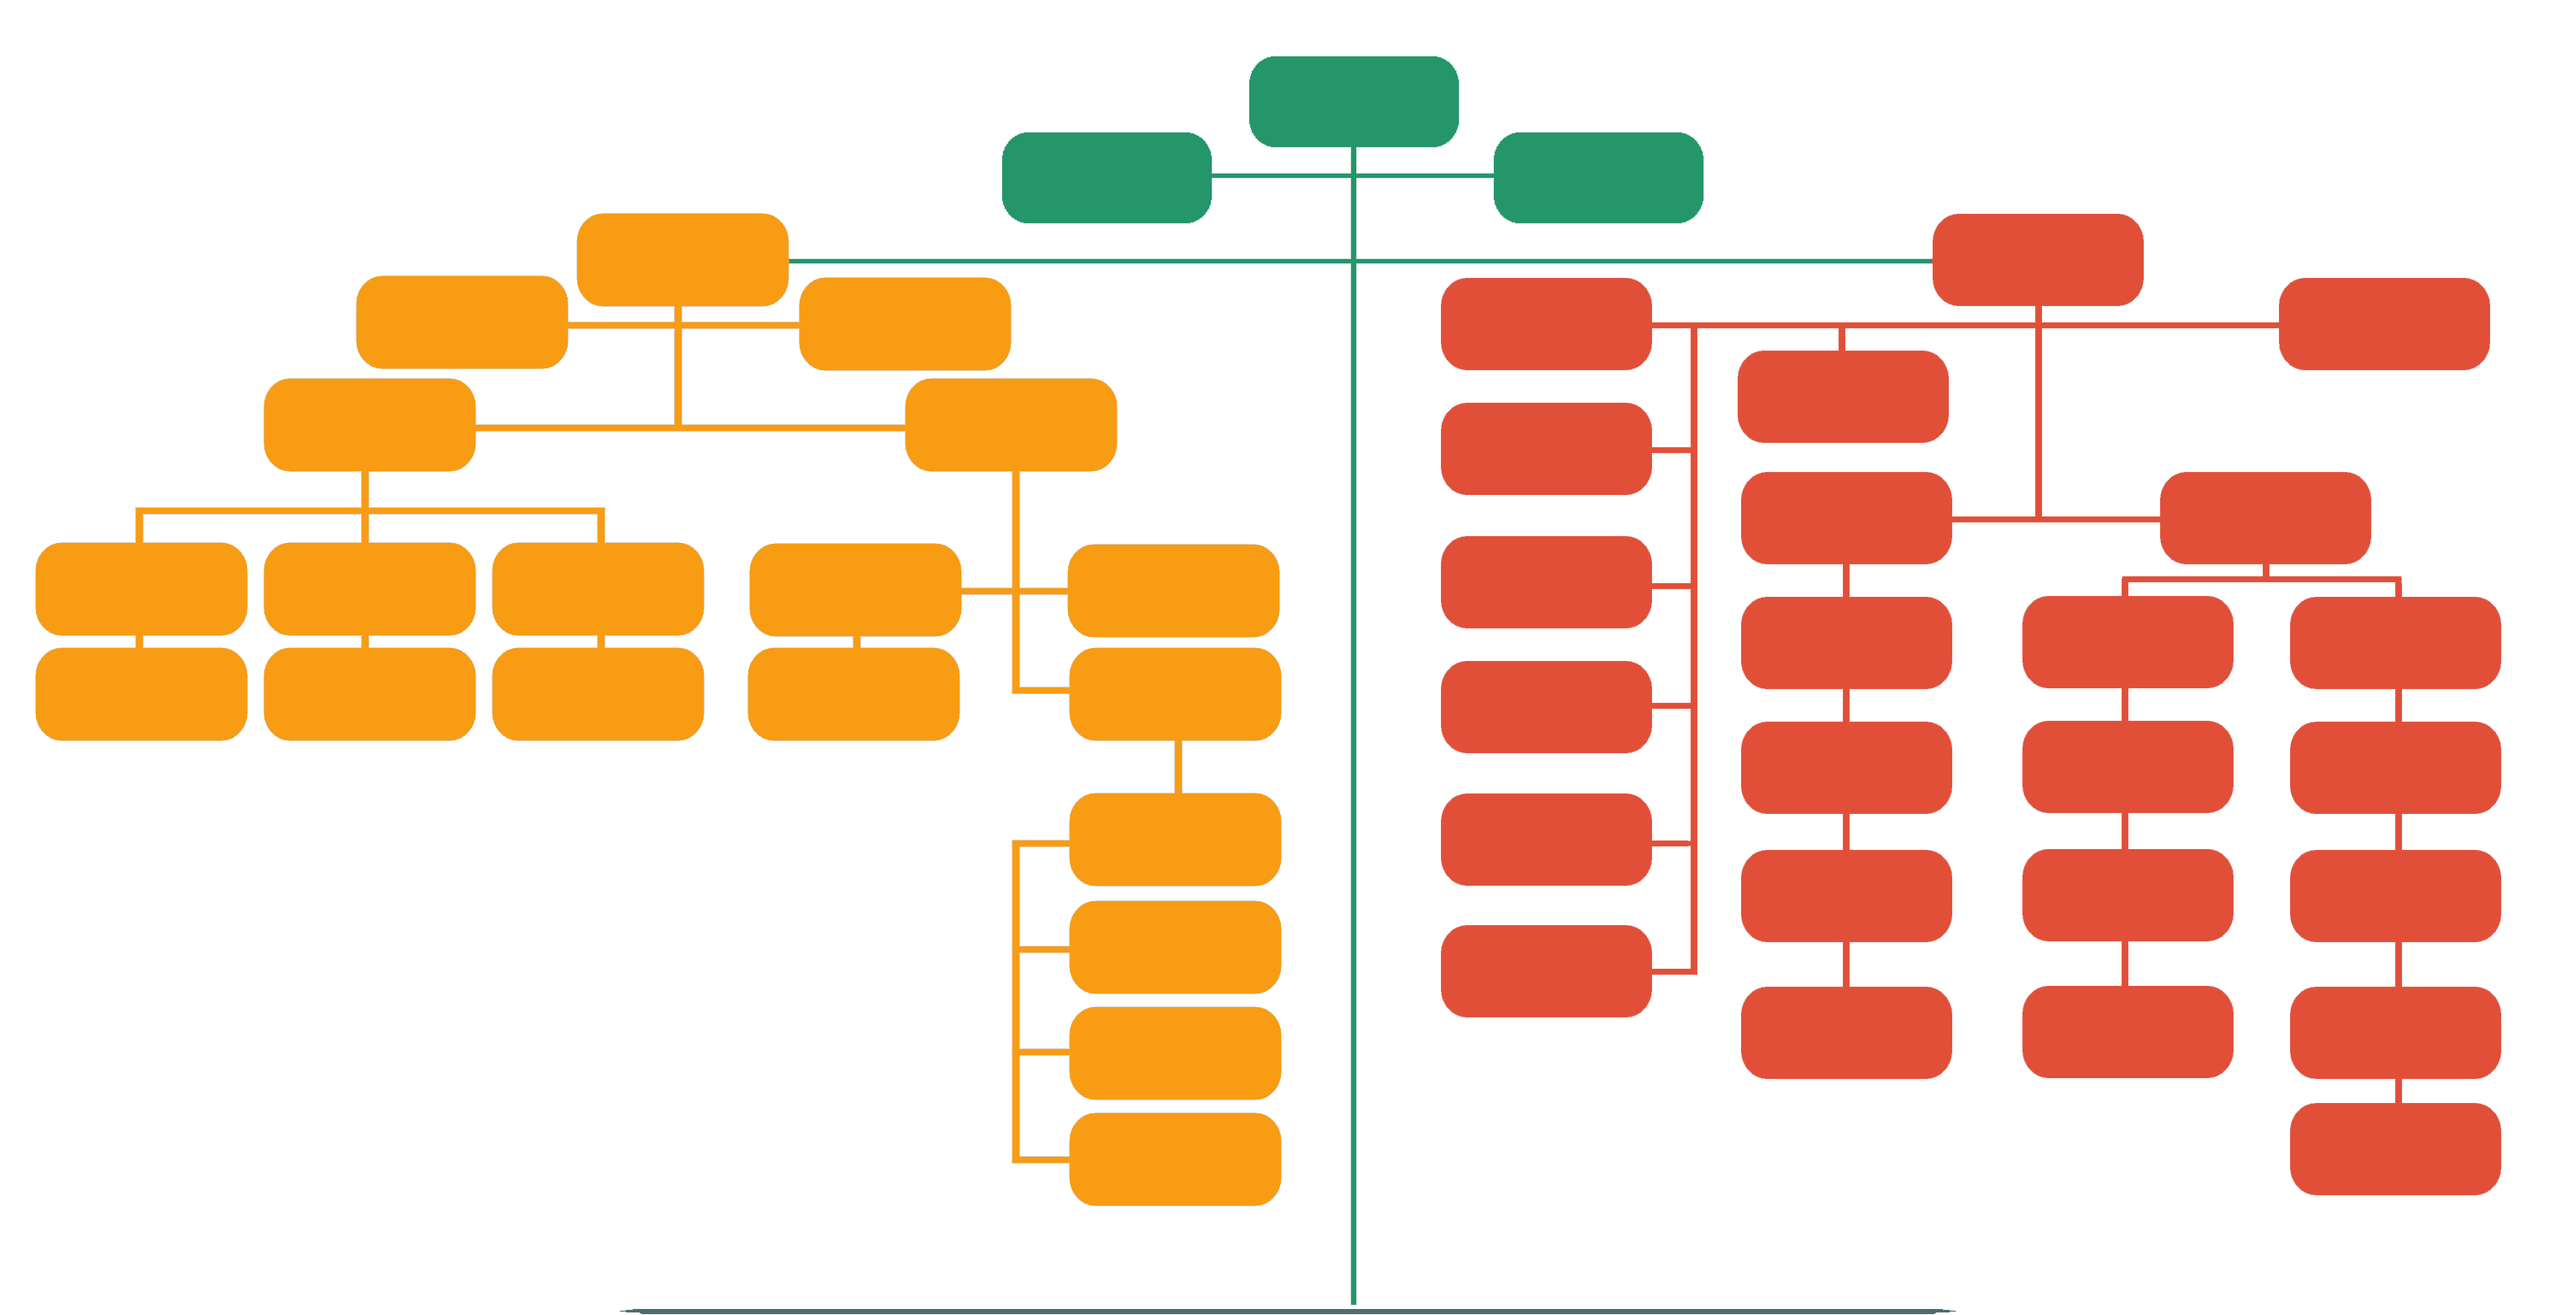
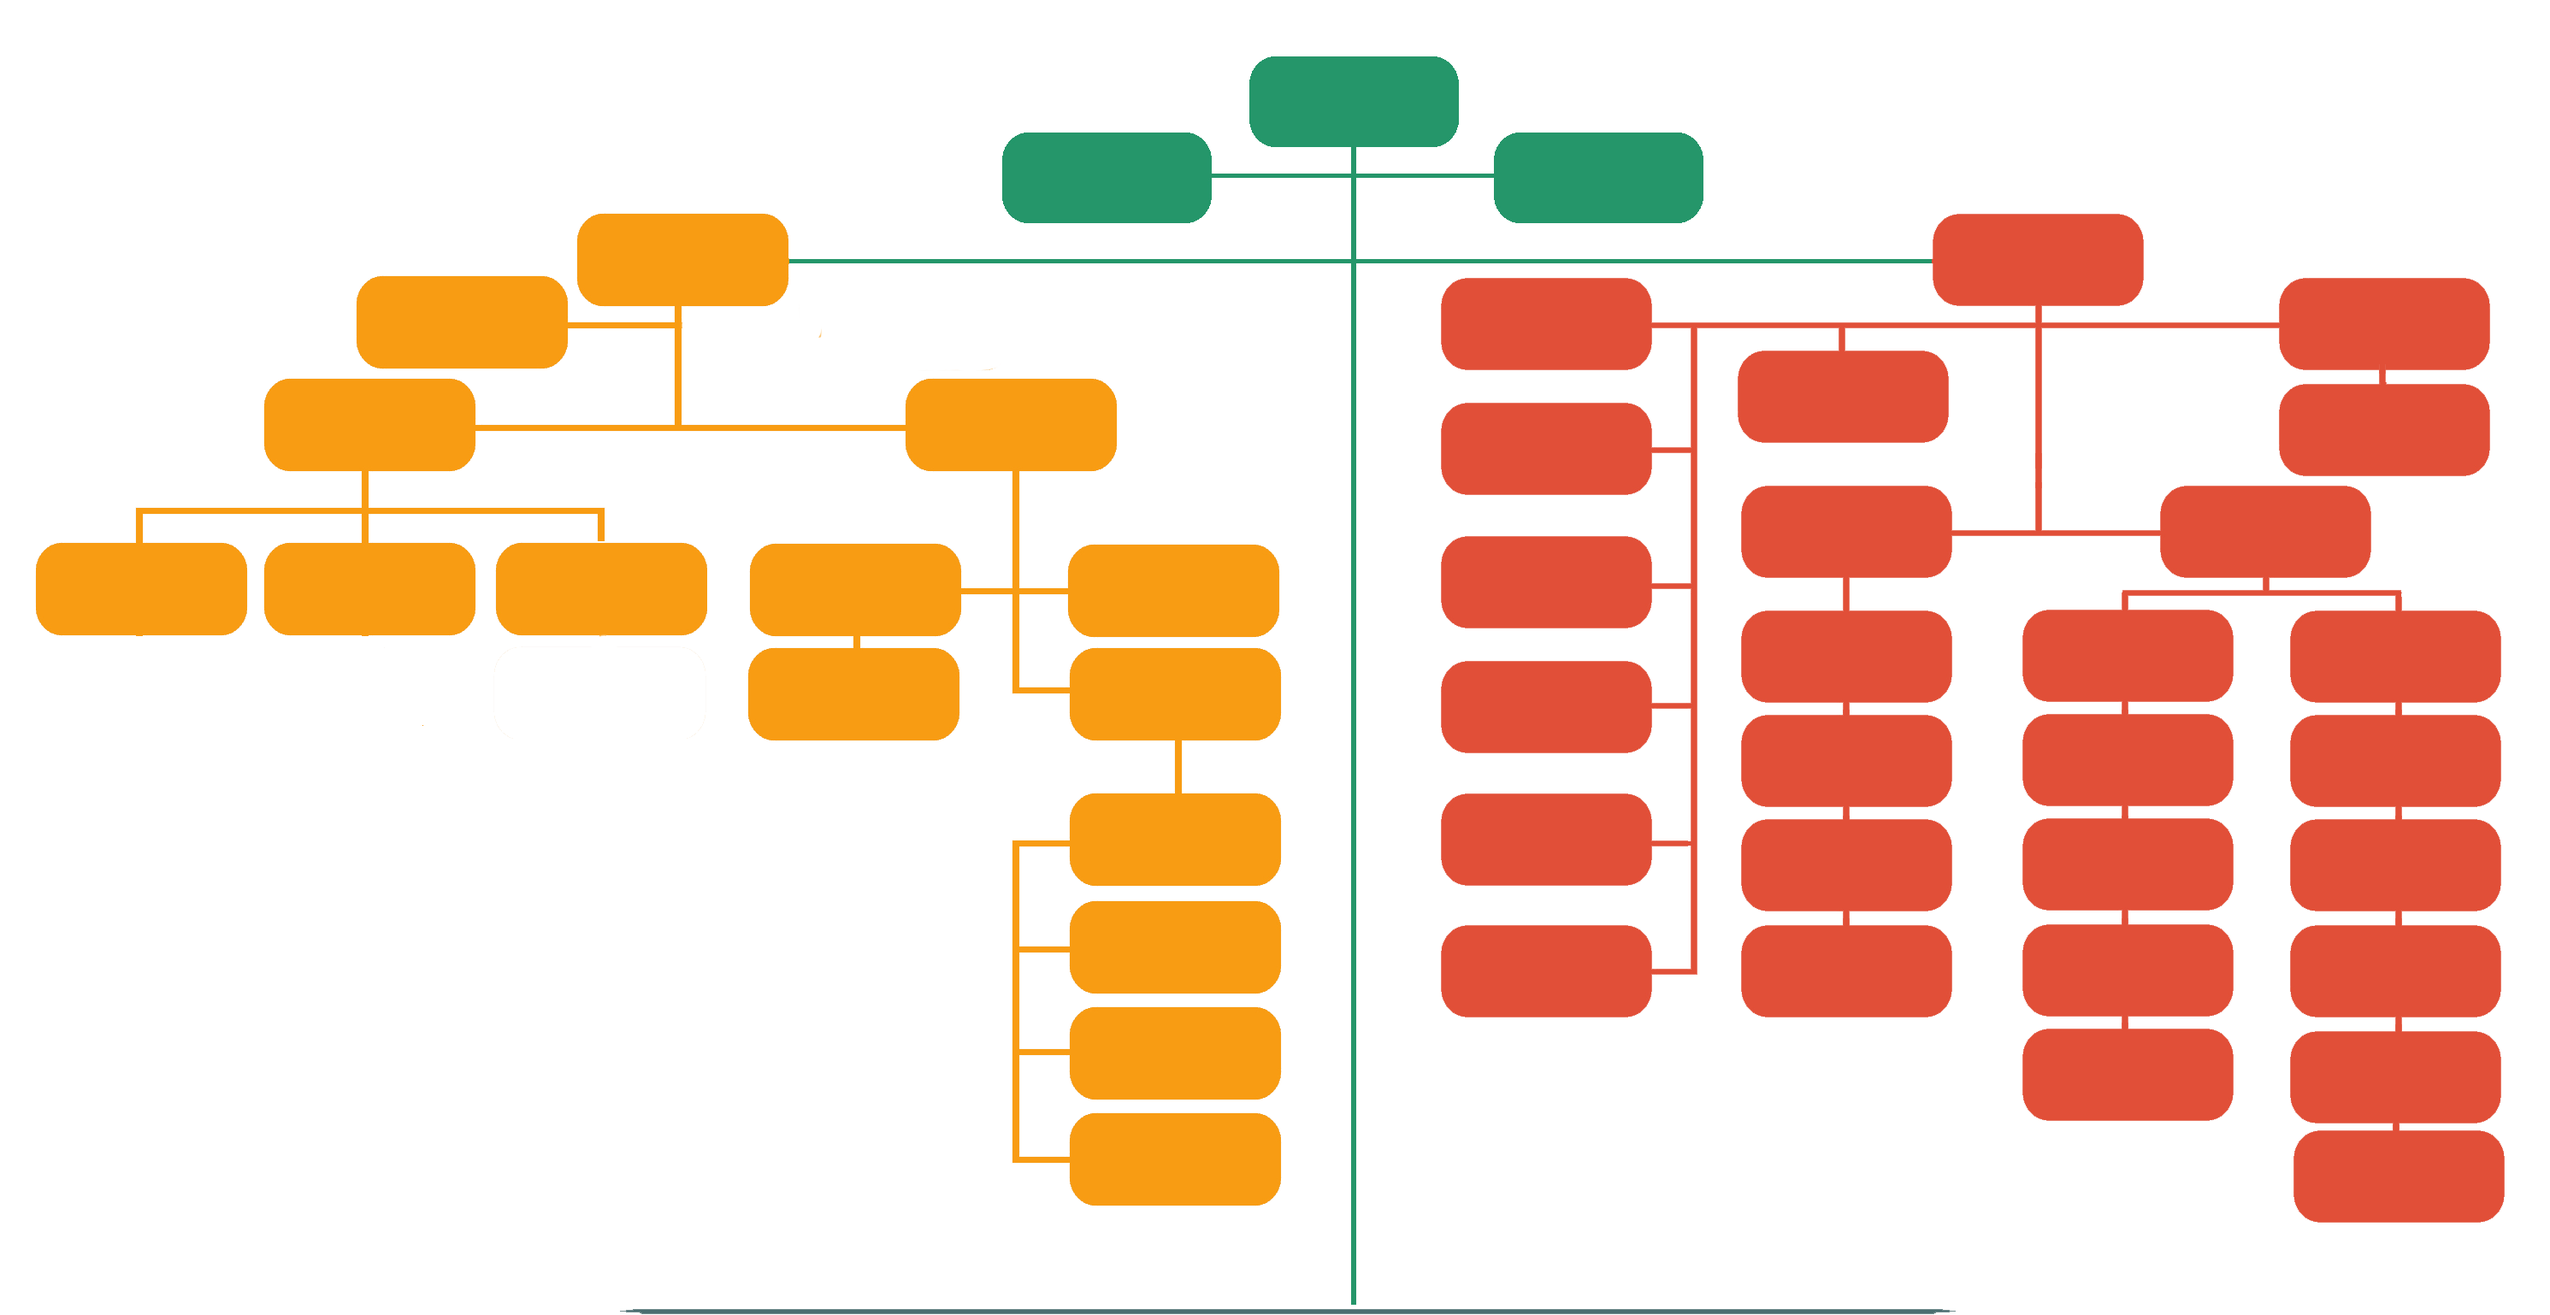
complete and fixed org chart

diff --git a/js/master.js b/js/master.js
@@ -113,21 +113,29 @@ function getRandomColor() {
 $(document).on('click','.org-block',function(){
   var i = 1;
   var notClick = false;
-  $.each( $(this).children('span'), function(){
+  var whole = '';
+  $.each( $(this).children('span'), function(){console.log(i);i++
     var data = $(this).text().split('//');
+    var image = "images/profile/"+data[1]+".jpg";
+    if(check_file_exist('images/profile/'+data[1]+".jpg")){
+      image = 'images/profile/blank-dp.png';
+      
+    }
     var appendThis = "<div class='block'>"
     appendThis += "<div class='name'>"
     appendThis += "<p>"+data[1]+"</p>"
     appendThis += "<p>"+data[0]+"</p></div>"
     appendThis += "<img class='frame' src='images/frame.png'>"
-    appendThis += "<img src='images/profile/"+data[1]+".jpg' class='pp'>"
+    appendThis += "<img src='"+image+"' class='pp'>"
     appendThis += "</div>"
-
-    $('#orgProfile_modal .modal-body div').html(appendThis)
+    whole += appendThis;
+    
     if(data[2] == 'true'){
       notClick = true;
     }
   });
+  $('#orgProfile_modal .modal-body div').html(whole)
+
   if(!notClick){
     $('#orgProfile_modal').modal('toggle');
   }
@@ -137,6 +145,13 @@ $(document).on('click','.org-block',function(){
 function closeAlert(){
   $('#alerts').modal('toggle');
   toggleMenu();
+}
+
+function check_file_exist(file){
+	var http = new XMLHttpRequest();
+	http.open('HEAD',file,false);
+	http.send();
+	return http.status == 404;
 }
 
 // Sending emails

diff --git a/orgList.php b/orgList.php
@@ -2,59 +2,60 @@
 $positions = [
   #[x,y,title,job title[],name[],initials[],clickable]
   [48.1, 0.4, '<br>Regional Director',['Regional Director'],['EDGARDO M. ESPERANCILLA, CESO II']],
-  [38.6, 3.3,'<br> Secretary',['SRS II'],['JEAN GAY O. RAGUB']],
-  [57.6,3.5,'<br>COA Audit Team',[''],['']],
+  [38.6, 3.3,'<br> Secretary',['SRS II','Science Aide'],['JEAN GAY O. RAGUB','NICKA E. VERBA']],
+  [57.6,3.5,'<br>COA Audit Team',['SA III (ATL)','SA II (ATM)','SA I (ATM)','AAI'],['SONIA M. ALVARINA','EVELINA M. ASEO','MARIA LUZ B. DELIMA','CHARILYN M. MANACPO']],
   // FAS
    [22.3,6.5,'Finance & Administrative Services',['Assistant Regional Director/HRMO'],['RUFINO E. MENGOTE, CESE']],
-  // [19.85,8.8],
-  // [34.6,8.85],
+   [13.85,9,'Administrative Assistant',['Administrative Aide VI'],['ROSALIE B. MAGCALAS']],
+ //  [34.6,8.85],
    [10.1,12.9, 'Finance & Management Section',[''],[''],false],
+
+   [1.3,19.2, '<br> Accounting Unit',['Accountant III', 'Accountant I', 'Administrative Assitant I - REGULAR FUND','Administrative Assistant I - TRUST ACCOUNT','Administrative Aide II','Administrative Aide II'],['LOURDES C. SALVATIERRA','ROGEN VINCENT R. TOBIAS','THELMA O. YUBAL','EVELYN L. ELBORE','DAISYDEL P. FERNANDO','LEONARD RALPH P. SANITA']],
+   [10.2,19.4, 'Budget Management Unit',['Administrative Officer V - Budget Officer','Clerk I'],['DEBBIE G. DELMO','CLARICE D. CAÑEGA']],
+   [19,19.4, 'Cash Management Unit',['Administrative Officer V - Cashier','Administrative Aide VI','Admin Aide I'],['REMEDIOS P. DELORIA','RYAN P. JUAN','JOSEPH I. CABELIN']],
+
    [34.9,13.2, 'Administrative Services Section',[''],[''],false],
-
-   [1.3,19.2, '<br> Accounting Unit',['Accountant III'],['LOURDES C. SALVATIERRA']],
-   [1.3,23.4, '<br>Accounting Staff', [''],['']],
-
-   [10.2,19.4, 'Budget Management Unit',['AO V - Budget Officer','Clerk I'],['DEBBIE G. DELMO','CLARICE D. CAÑEGA']],
-   [19,19.4, 'Cash Management Unit',['AO V - Cashier','Administrative Aide VI'],['REMEDIOS P. DELORIA','RYAN P. JUAN']],
-
-   [28.9,19, '<br>Supply & Property Unit',['AO V - Supply & Property Officer'],['PROSPERO T. PEQUE']],
+   [28.9,19, '<br>Supply & Property Unit',['Adminitrative Officer V - Supply & Property Officer'],['PROSPERO T. PEQUE']],
    [28.8,23.8, 'Procurement Services',['Science Research Assistant','Clerk I'],['DANILO C. REYES','JEYTO G. PELIÑO']],
    [41.2,19.2, '<br> HRM Office',['HRM Assistant'],['CLEENDY U. LAGUNZAD']],
 
-  // [16.75,21.2],
-  // [24.4,21.2],
-
    [41.2,23.2, '<br>General Services',[''],[''],false],
    [41.2,28.5, '<br>Transport Services',['Adimin Aide IV','Admin Aide I','Admin Aide I'],['DOMINIC O. ABIABI','PEDRO G. RAAGAS','ROGELO P. BAJON']],
-   [41.2,33.1, '<br>Bank Liaison',['Admin Aide I'],['JOSEPH I. CABELIN']],
-   [41.2,37.1, '<br>Utility Services',['Utility'],['GERRY S. GASPAY']],
-   [41.2,41.2, '<br>Infra Projects',['PA II'],['Ms. Sheina ']],
-  // // TO
-   [74.5,6,'<br> Technical Operations',['Assistant Regional Director'],['ERNESTO M. GRANADA, CSEE']],
-  // [84,8.8],
-  // [65.8,11.3],
-   [55.5, 9,'<br> Biliran PSTC', ['Provincial S&T Director','SRS II','Admin Asst. III','PA II','PA I','Utility'],['ROMEO L. DIGNOS','MA. CATHERINE G. MANIBA','JULIET M. AGUIRRE','GRACE VILLALYN R. SALDO','TEDDY M. ABENIDO','RUDY L. PADA, JR.']],
-   [55.6, 13.6,'<br>Eastern Samar PSTC',['Provincial S&T Director'],['ARNALDO T. AMOSCO, JR.']],
-   [55.6, 19,'<br>Leyte PSTC',['Provincial S&T Director'],['JOHN GLENN G. OCAÑA']],
-   [55.6, 23.2,'<br>Northern Samar PSTC',['Provincial S&T Director'],['VERONICA A. LAGUITAN']],
-   [55.6, 29, '<br>Samar PSTC',['Provincial S&T Director'],['ROSELLA L. GOPO']],
-   [55.6, 33.7, '<br>Southern Leyte PSTC',['Provincial S&T Director'],['FLORITA M. SANTIAGO']],
-  // [65.9,15.3],
-  // [65.9, 19.5],
-  // [65.9, 23.5],
-  // [66, 27.9],
-  // [66, 32.4],
-  // [80, 15.4],
-  // [75.4, 19.5],
-  // [84.3, 19.5],
-  // [75.4, 23.5],
-  // [84.3, 23.5],
-  // [75.4, 27.8],
-  // [84.3, 27.8],
-  // [75.4, 32.5],
-  // [84.3, 32.5],
-  // [84.3, 36.4]
+   [41.2,33.1, '<br>Utility Services',['Utility'],['GERRY S. GASPAY']],
+   [41.2,37.1, '<br>Infra Projects',['Project Assistant II','Project Assistant II'],['MA. SHEENA B. MONTEZA','RUFINO M. AYORE, III']],
+   [41.2,41.2, '<br>Security Services',[''],[''], false],
 
+   [55.5, 9,'<br> Biliran PSTC', ['Provincial S&T Director','Science Research Specialist II','Administrative Assistant III','Project Assistant II(TAIS)','Project Assistant I(TAIS)','Administrative Aide I'],['ROMEO L. DIGNOS','MA. CATHERINE G. MANIBA','JULIET M. AGUIRRE','GRACE VILLALYN R. SALDO','TEDDY M. ABENIDO','NELSON L. TAPAYA']],
+   [55.6, 13.6,'<br>Eastern Samar PSTC',['Provincial S&T Director','Science Research Specialist II','Science Research Specialist II','Project Assistant II(TAIS)','Project Assistant I(TAIS)','Administrative Aide I'],['ARNALDO T. AMOSCO, JR.','EMIEL PRISCO N. DISCAR','MELVIN JOEL B. SACMAR','MARK WILLIAM B. GONZALES, III','RESSA C. JARABILLO','PETER KRESVEN ALMA']],
+   [55.6, 19,'<br>Leyte PSTC',['Provincial S&T Director','Science Research Specialist II','Science Research Specialist II','Science Research Specialist II','Project Assistant II(TAIS)','Project Assistant I(TAIS)','Administrative Aide I'],['JOHN GLENN G. OCAÑA','IMELDA S. PICORRO','HEBER A. MATOZA','MHARDY M. MONTEJO','EDWIN GILBERT P. FUMAR','RODERICK A. PIANGCO','JOSEPH ARTEM M. INSIGNE']],
+   [55.6, 23.2,'<br>Northern Samar PSTC',['Provincial S&T Director','Science Research Specialist II','Science Research Specialist I','Science Research Assistant (SAFE)','Project Assistant II(TAIS)','Project Assistant I','Administrative Aide I'],['VERONICA A. LAGUITAN','JULIO C. CALUMPIANO, JR','ANORLY B. ROLLO','jayboy l. rollo','ALFRED S. UBALDO','TINA S. NOTADO','ARNOLD C. TOLITOL']],
+   [55.6, 29, '<br>Samar PSTC',['Provincial S&T Director','Science Research Specialist II','Science Research Specialist II','Science Research Specialist II','Project Assistant II(TAIS)','Project Assistant I(TAIS)','Administrative Aide I'],['ROSELLA L. GOPO','JOSEPH ALBERT O. LLEDO','EMELYN A. MAGLAHUS','ISABELITA M. PAMPOSA','BEVERLY G. PEÑEDA','IRENE B. LAZARRA','RODELIO C. MORCILLA']],
+   [55.6, 33.7, '<br>Southern Leyte PSTC',['Provincial S&T Director','Science Research Specialist II','Science Research Specialist I','Project Assistant II(TAIS)','Project Assistant I(TAIS)','Administrative Aide I'],['FLORITA M. SANTIAGO','NORMA CECILLE E. BAGARINAO','VANESSA KELLY J. BARIATA','EMEE SHEILA A. PELONA','REDEEMSETH N. GLORIA','PATRICK F. PUTAN']],
+
+   [74.5,6,'<br> Technical Operations',['Assistant Regional Director'],['ERNESTO M. GRANADA, CSEE']],
+   [67,11,'<br> Technical Assistant',['Science Aide'],['JESSA MAY C. MERCADO']],
+   [88,8.8,'Planing, M & E, & Mgt. Info System',['Sr. SRS, Planning & MIS Officer','SRA','Science Aide'],['RODERICK B. PACAÑOT','NOLI D. PADAGDAG','JESSA MAY C. MERCADO']],
+   [88,13,'<br>ICT Section',['Science Research Specialist II, Web Admin/STARBOOKS','SRA, Alt. Web Admin/ICT Maint.'],['FLORENTINO L. QUIÑONES, JR','NOLI D. PADAGDAG']],
+   
+   [67.2,17.3,'Regional Standard & Testing Laboratory',['Sr. Science Research Specialist, Quality Manager'],['MARILYN O. RADAM']],
+   [67.2,21.5,'Physico - Chemical Laboratory',['Sr. Science Research Specialist II, Technical Manager','Science Research Specialist II(One Lab)'],['ARISTOTLE A. MAZO','LILANE A. CUTANDA']],
+   [67.2, 26.5,'Microbiology Laboratory',['Sr. Science Research Specialist II, Technical Manager','Science Research Specialist II','Science Research Specialist I','Science Research Specialist I(One Lab)'],['MARILYN O. RADAM','EMMANUEL E. LAGDAMEN','ALFRED B. CALIBUSO','DARRIENE MAUREEN BERNABE']],
+   [67.2, 29.5,'Metrology and Calibration Laboratory',['Sr. Science Research Specialist II, Technical Manager','Science Research Specialist II','Science Research Specialist I(RMLs)','Science Research Specialist I(One Lab)','Science Research Aide(RMS)'],['RODERICK B. PACAÑOT','MARCELINO M. NICER','FILIPINAS M. PETILLA','RODEON NIÑO M. MERCADER','MIKE HARVEY G. AMBAIT']],
+   [67.2, 34,'<br>Other Services',['Sr. Science Research Specialist, R&D, FIC','Sr. Science Research Specialist, FOC','Science Research Specialist II, FOC','Lab Tech II, EVSU'],['MARILYN O. RADAM','ROSELLA L. GOPO','ISABELITA M. PAMPOSA','KYLA S. ILAGAN']],
+
+   [83., 17.1,'Technical Support Services',['Supervising SRS, Executive Manager'],['MAE ANNE D. REYES']],
+   [78.1, 21.6,'Tech Transfer & Commercialization Center',['Supervising SRS, Center Manager'],['MAE ANNE D. REYES']],
+   [78.1,26,'<BR>SETUP',['Supervising SRS','Project Assistant III(RPMO)','Project Assistant II(LNU)','Project Assistant II(LNU)','Project Assistant II, RPMO/One Store','Sr. SRS, Technology Trainings/ IDEA Team/TAPI Programs'],['MAE ANNE D. REYES','JOSHUA M. REAMBONANZA','JEMA B. GISULGA','GEOFIL F. AMADOR','LYSANDER P. KING III','RAMIL T. UY']],
+   [78.1,30.2,'Technical Consultancy',['SRS II, Consul. Head/MPEX','Science Research Specialist I, One Expert','Science Research Specialist II, CAPE/DATBED','Sr. Science Research Specialist, CPT/Energy Audit','Sr. Science Research Specialist, Food Safety/GMP'],['LUCIA P. DAUZ','NANCY A. MILITANTE','EVELYN B. TABLANTE','RAMIL T. UY','MARILY O. RADAM']],
+   [78.1, 34,'<br>Special Projects',['Supervising SRS, NDVS','Science Research Specialist II, EVHRDC','Science Research Specialist I, EVHRDC','Computer Operator I, EVHRDC','Project Assistant I, EVHRDC','Project Assistant I, EVHRDC','Rx Box','Sr. SRS, FIC','SRS II, GAD(Tech Concerns), Comp. Food','Sr. SRS, CF/RICTC-EVFIT','EVFIT','Project Coordinator, DEWS','SRS I, PS, DEWS','SRS I, PS, DEWS','ARD-TO, FP-YRRP','Sr. SRS, AFP-YRRP','SRS I,YRRP','PA I, YRRP','SA, YRRP'],['MAE ANNE D. REYES','LUCIA P. DAUZ','RACHELLE MAE ARAPE','JEFFREY P. HINAMPAS','RONALYN A. BAGUNAS','PAMELA POLEÑO','LOVELENE B. MACEDA','MARILYN O. RADAM','EVELYN B. TABLAMNTE','LUCIA P. DAUZ','JOHN GLENN G. OCAÑA','ROLANDO D. SULLA','RUFINO E. MENGOTE','RALPH BENJIE B. PASCUAL','ISACAR S. MUÑEZ','ERNESTO M. GRANADA','RODERICK B. PACAÑOT','ALFIE NIÑO M. BONGOSIA','HAZEL JOY C. KATANGKATANG','ROLDAN C. SEBASTIAN']],
+   [78.1, 38.4,'Special Projects, YRRP Other Staff',['Project Assistant II, Leyte','Project Assistant I, Leyte','Project Assistant I, Biliran','Project Assistant I, So. Leyte','Project Assistant I, E. Samar','Project Assistant I, Samar','Clerk','Project Assistant II, ePROMIS','Project Assistant II, ePROMIS','Project Assistant I, STARBOOKS'],['KRISTINE C. QUINAWAYAN','LEONYSA BACOR','JAKE CLEO S. CORTO','JUNALYN A. AROY','BLENDA ASERIOS','JUN PAULA PRETENCIO','BENJAMIN D. GALANG','MARK JULIUS P. TIOZON','JEFFREY NOEL L. QUILAQUIL','MARK STEPHEN D. REYES']],
+  
+   [88.3, 22.1,'Grants in Aid (GIA) Projects',['Science Research Specialist II, Coordinator','Science Research Specialist II, Alt. Coordinator','Project Assistant I','Science Aide (ORD)','Clerk 1 (Budget)','Clerk I (Supply)'],['lucia p. dauz','jean gay o. ragub','sharmaine a. gonzales','nicka e. verba','clarice d. CAÑEGA','jeyto G. PeliÑo']],
+   [88.3, 25.8,"Reg'l S&T HRD, PROMO & Info Center",['Sr. Science Research Specialist, Center Manager'],['Ramil T. Uy']],
+   [88.3, 30,'S&T Human Resource Devt',['Sr. Science Research Specialist','Science Project Staff III','Science Project Staff II'],['RAMIL T. Uy','Ma. Divina Gracia L. Advincula','mizpah jay m. candole']],
+   [88.3, 34.4,'S&T Trng Promotion & Info',['Sr. Science Research Specialist','Science Research Specialist II'],['ramil t. uy','evelyn b. tablante']],
+   [88.3,38,'S&T Linkages & Resource Gen.',['Sr. Science Research Specialist, EVCIERD','Supvg. SRS, VICARP/RRDEN'],['RAMIL T. UY','MAE ANNE D. REYES']],
+   [88.3,41.9,'<br>CEST Program',['Sr. SRS, Overall Coordinator','Sr. SRS, Jaro','Sr. SRS, Basey','Sr. SRS, Salcedo','Sr. SRS, Sogod','Science Research Specialist II, Abarca','AT I PCARRD','Sr. SRS, RDC-SDC/CEST','Project Assistant II, CEST'],['ramil t. uy','john glenn d. ocaña','rosella l. gopo','arnaldo t. amosco, jr.','florita m. santiago','evelyn b. tablante','teresa t. yepes','ramil t. uy','ma. arian j. gad']]
 ];
 
 ?>

diff --git a/organization.php b/organization.php
@@ -4,11 +4,11 @@
     require_once('orgList.php');
     foreach ($positions as $value): ?>
       <a href="#" onclick="event.preventDefault()">
-        <div class="org-block" style="margin-left:<?= $value[0] ?>%;margin-top:<?= $value[1] ?>%;padding:4px;">
+        <div class="org-block" style="margin-left:<?= $value[0] ?>%;margin-top:<?= $value[1] ?>%;padding:4px">
           <p style='margin-top:1px;line-height:1'><?=$value[2]?></p>
           <?php for ($i=0; $i < count($value[3]); $i++) {
             $notClick = ( !isset($value[5]) ? '' : 'true' );
-            echo "<span type='hidden'>".$value[3][$i].'//'.$value[4][$i].'//'.$notClick."</span>";
+            echo "<span type='hidden'>".$value[3][$i].'//'.strtoupper($value[4][$i]).'//'.$notClick."</span>";
           } ?>
         </div>
       </a>
